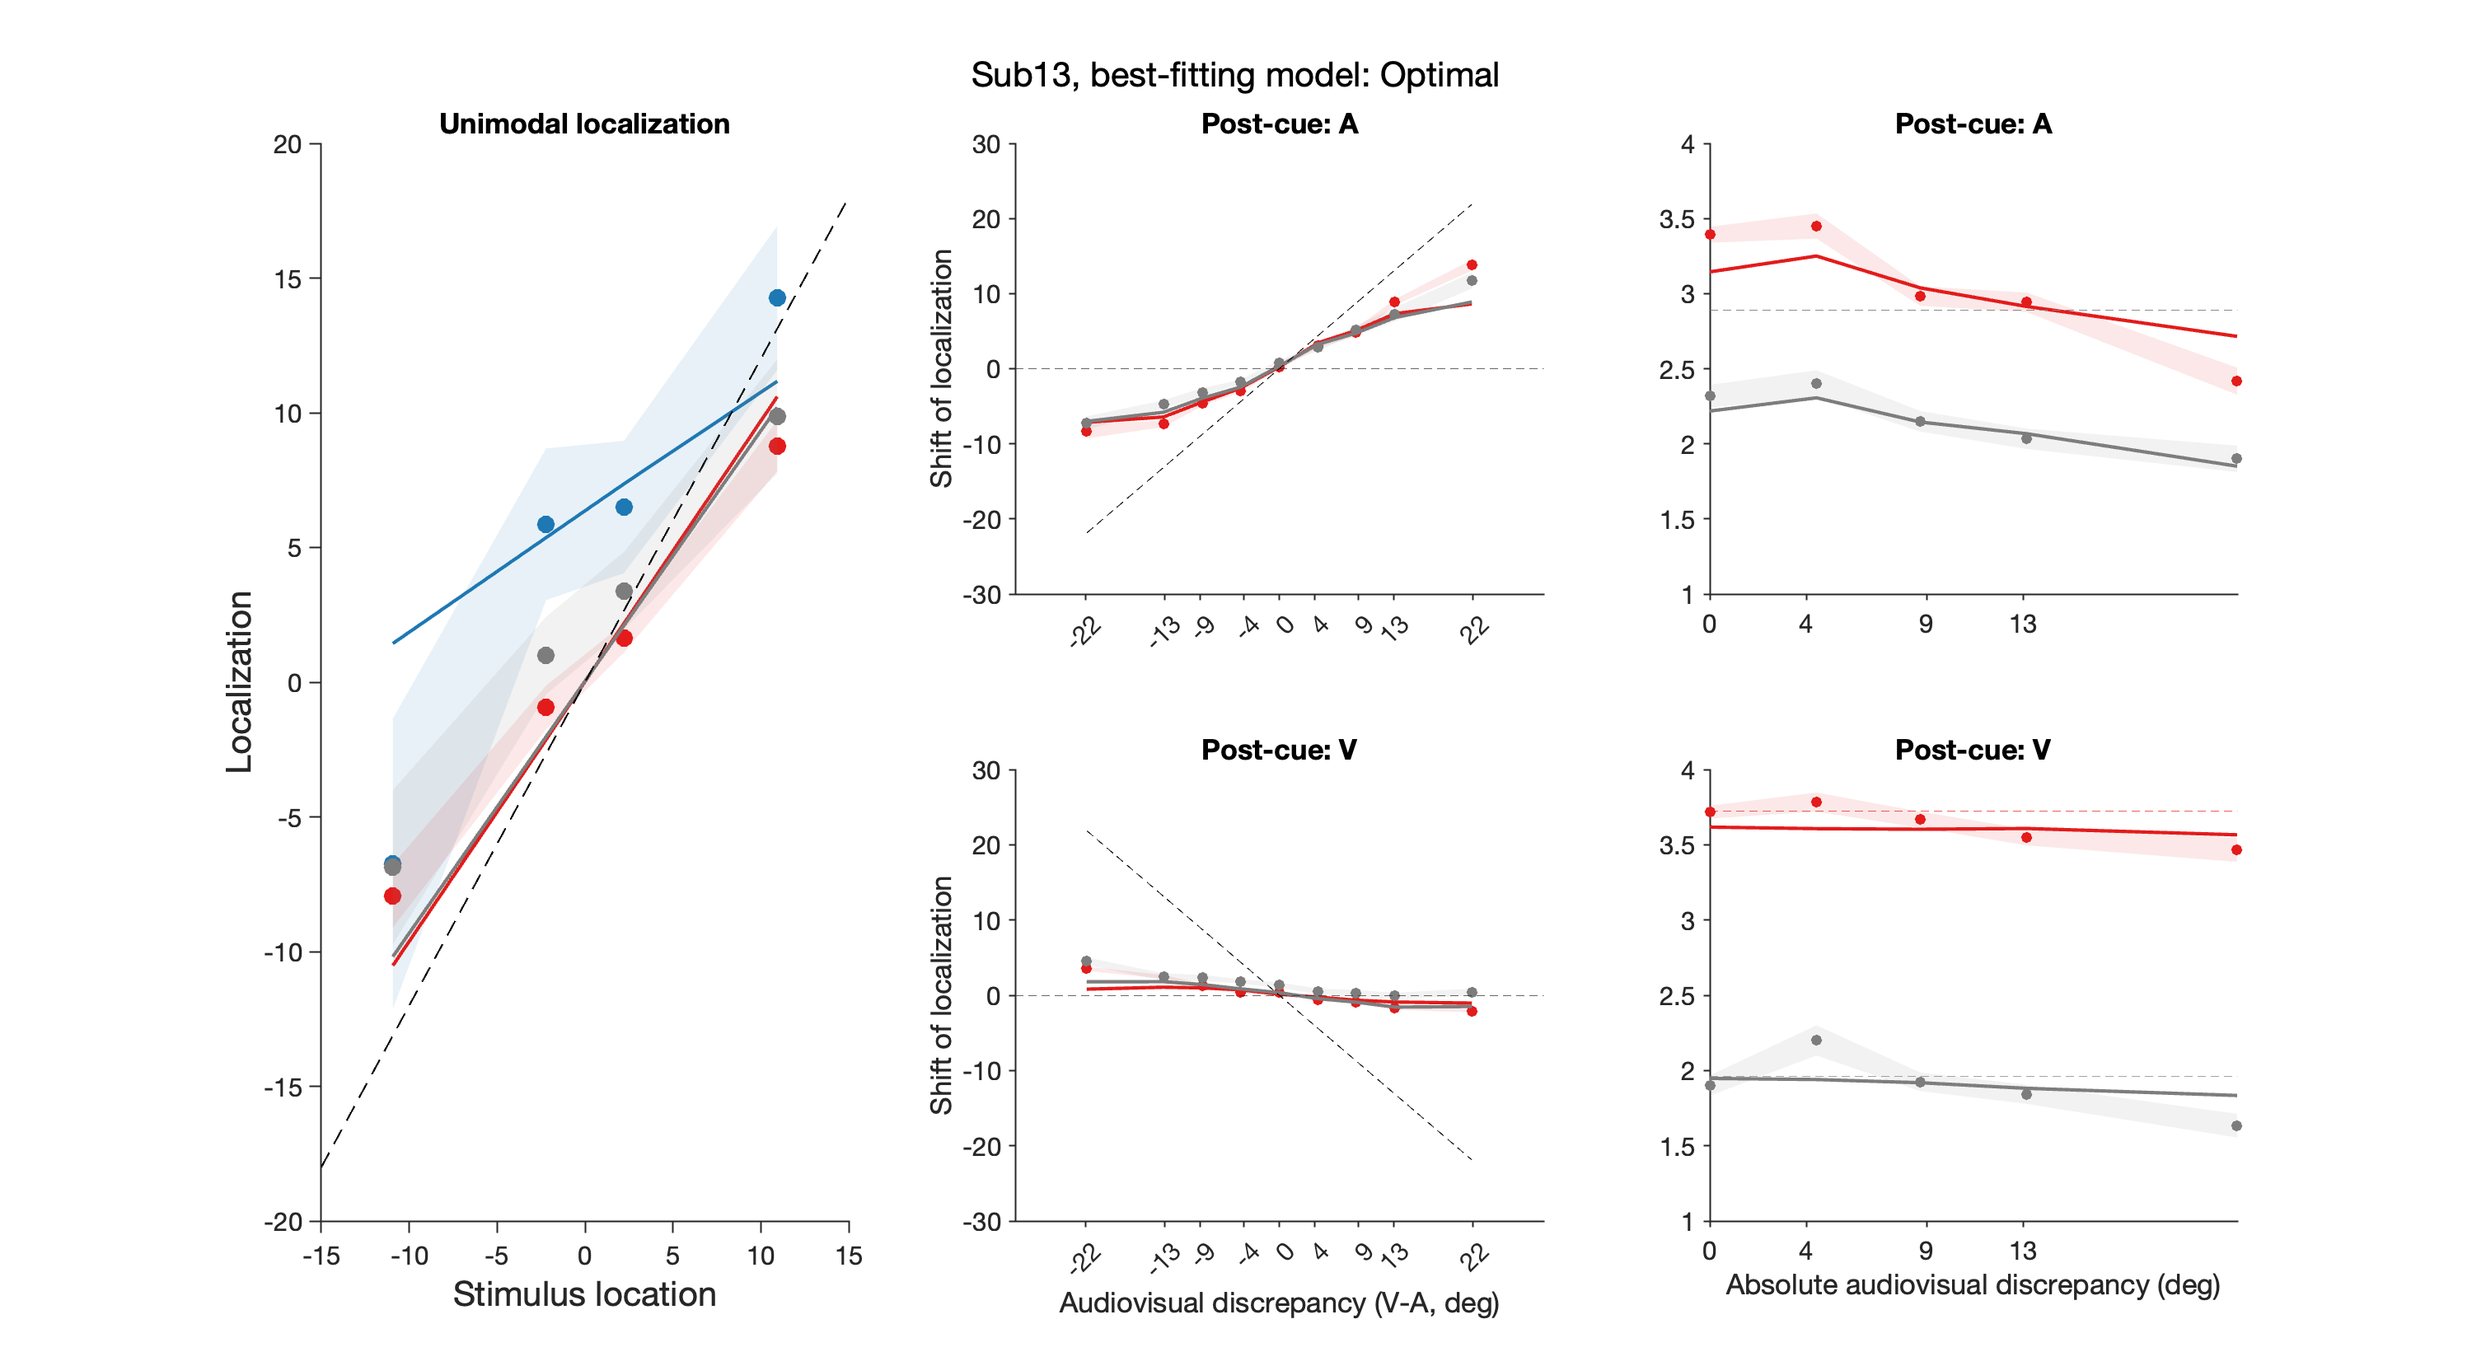
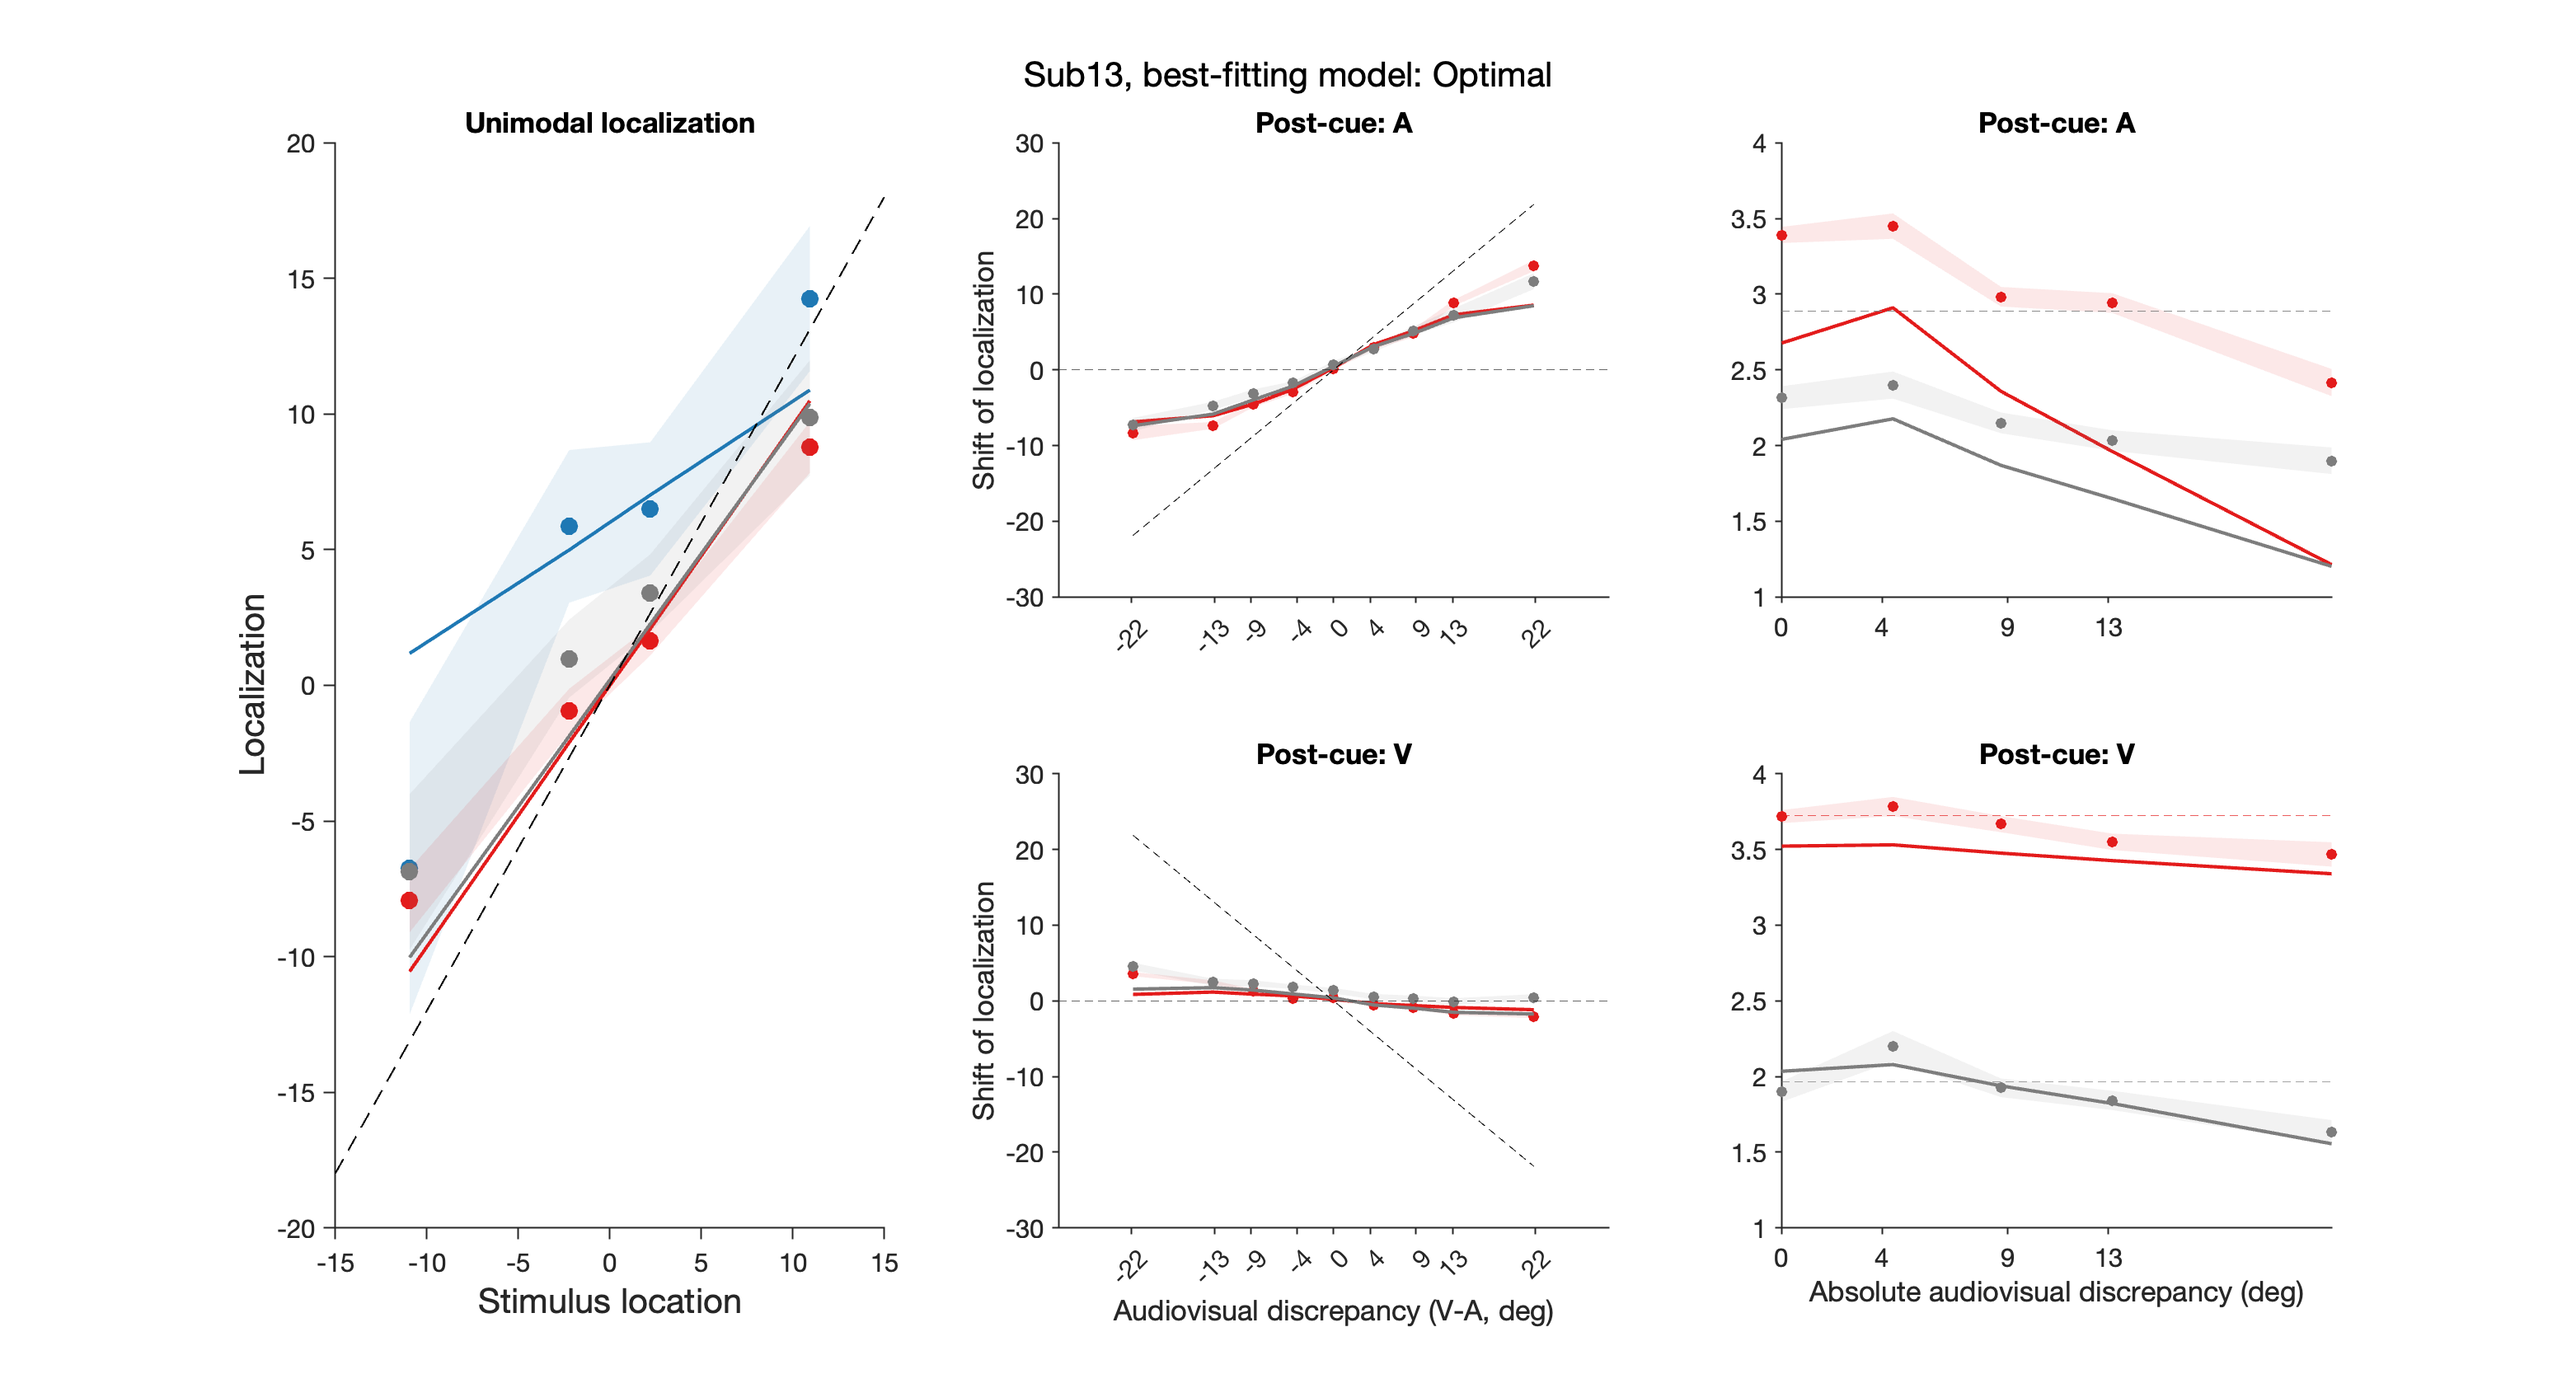
use variance for 2 criteria

diff --git a/modelFit/uniBiLocV8_2stage_sharedSigma_4C/plotEstVar.m b/modelFit/uniBiLocV8_2stage_sharedSigma_4C/plotEstVar.m
@@ -36,7 +36,7 @@ load(files(end).name);
 
 % winning model?
 [~, d] = min([saveConfModel{1}.minNLL, saveConfModel{2}.minNLL, saveConfModel{3}.minNLL]);
-d = 3;
+% d = 3;
 
 % use the best-fitting parameter and winning model
 p = saveConfModel{d}.bestP;
@@ -58,13 +58,14 @@ histogram(uni_est(1,:))
 histogram(uni_est(2,:))
 histogram(uni_est(3,:))
 legend({'A','V1','V2'})
-cA = [p(2),p(2)+p(3),p(2)+p(3)+p(4)]; cV = [p(5),p(5)+p(6),p(5)+p(6)+p(7)];
+cA1 = [p(2),p(2)+p(3),p(2)+p(3)+p(4)]; cV1 = [p(5),p(5)+p(6),p(5)+p(6)+p(7)];
+cA2 = [p(8),p(8)+p(9),p(8)+p(9)+p(10)]; cV2 = [p(11),p(11)+p(12),p(11)+p(12)+p(13)];
 
-for c = 1:3
-
-    xline(cA(c));
-    xline(cV(c),'--');
-end
+% for c = 1:3
+% 
+%     xline(cA(c));
+%     xline(cV(c),'--');
+% end
 
 
 % %% plot unimodal estvar
@@ -103,6 +104,7 @@ for pp = 1:npair
     hold on
     % xlim([0, 10])
     title(sprintf('discrepancy: %i', udiff(pp)))
+xlim([0, 30])
 
     aa = pair_slc(pp,1);
     vv = pair_slc(pp,2);
@@ -110,52 +112,53 @@ for pp = 1:npair
     for  rel = 1:2
 
         bi_est = squeeze(pred.bi_est_var(aa,vv,1,rel,:));
-        histogram(bi_est,'NumBins',25)
+        histogram(bi_est,'BinWidth',0.2)
 
     end
 
     for cc = 1:3
 
-        xline(cA(cc));
+        xline(cA1(cc));
+        xline(cA2(cc),'--');
 
     end
 
 end
 
 
-%% plot bimodal conf resp
-
-sA = [-10, -2, 2, 10];
-diff =  sA - sA';
-udiff = unique(diff);
-udiff = udiff(5:end);
-pair_slc = [2,2;3,2;2,1;3,1;4,1];
-npair = size(pair_slc,1);
-
-figure
-sgtitle('A')
-set(gcf,'Position',[0,0,2400,300])
-
-for pp = 1:npair
-
-    subplot(1,npair, pp);
-    hold on
-    % xlim([0, 10])
-    title(sprintf('discrepancy: %i', udiff(pp)))
-
-    aa = pair_slc(pp,1);
-    vv = pair_slc(pp,2);
-
-    for  rel = 1:2
-
-        bi_conf = squeeze(pred.bi_conf(aa,vv,1,rel,:));
-        histogram(bi_conf(:))
-
-    end
-    xticks(0:5)
-    xlim([0,5])
-
-end
+% %% plot bimodal conf resp
+% 
+% sA = [-10, -2, 2, 10];
+% diff =  sA - sA';
+% udiff = unique(diff);
+% udiff = udiff(5:end);
+% pair_slc = [2,2;3,2;2,1;3,1;4,1];
+% npair = size(pair_slc,1);
+% 
+% figure
+% sgtitle('A')
+% set(gcf,'Position',[0,0,2400,300])
+% 
+% for pp = 1:npair
+% 
+%     subplot(1,npair, pp);
+%     hold on
+%     % xlim([0, 10])
+%     title(sprintf('discrepancy: %i', udiff(pp)))
+% 
+%     aa = pair_slc(pp,1);
+%     vv = pair_slc(pp,2);
+% 
+%     for  rel = 1:2
+% 
+%         bi_conf = squeeze(pred.bi_conf(aa,vv,1,rel,:));
+%         histogram(bi_conf(:))
+% 
+%     end
+%     xticks(0:5)
+%     xlim([0,5])
+% 
+% end
 
 %%
 
@@ -176,13 +179,14 @@ for pp = 1:npair
     for  rel = 1:2
 
         bi_est = squeeze(pred.bi_est_var(aa,vv,2,rel,:));
-        histogram(bi_est,'NumBins',25)
+        histogram(bi_est,'BinWidth',0.2)
 
     end
 
     for cc = 1:3
 
-        xline(cV(cc));
+        xline(cV1(cc));
+        xline(cV2(cc),'--');
 
     end
 

diff --git a/modelFit/uniBiLocV6_2stage_sharedSigma_diffC/nllUniBiConf.m b/modelFit/uniBiLocV6_2stage_sharedSigma_diffC/nllUniBiConf.m
@@ -9,18 +9,18 @@ switch model.mode
 
         % hard bounds, the range for LB, UB, larger than soft bounds
         paraH.sigC                   = [1e-4,     5]; % measurement noise of confidence
-        paraH.c1                     = [ 0.5,     5];
-        paraH.dc2                    = [0.01,     5];
-        paraH.dc3                    = [0.01,     5];
-        paraH.c4                     = [ 0.5,     5];
-        paraH.dc5                    = [0.01,     5];
-        paraH.dc6                    = [0.01,     5];
+        paraH.c1                     = [ 0.5,     20];
+        paraH.dc2                    = [0.01,     20];
+        paraH.dc3                    = [0.01,     20];
+        paraH.c4                     = [ 0.5,     10];
+        paraH.dc5                    = [0.01,     10];
+        paraH.dc6                    = [0.01,     10];
 
         % soft bounds, the range for PLB, PUB
         paraS.sigC                   = [1e-4,     2]; % measurement noise of confidence
         paraS.c1                     = [   1,     2];
-        paraS.dc2                    = [ 0.1,   0.5];
-        paraS.dc3                    = [ 0.1,   0.5];
+        paraS.dc2                    = [ 0.1,     5];
+        paraS.dc3                    = [ 0.1,     5];
         paraS.c4                     = [   1,     2];
         paraS.dc5                    = [ 0.1,   0.5];
         paraS.dc6                    = [ 0.1,   0.5];
@@ -79,9 +79,13 @@ switch model.mode
 
             % normalize variance by the corresponding modality noise to
             % approximate uncertainty
-            norm_var_A = 1/(1/sigP^2 + 1/sigA^2)/sigA;
-            norm_var_V1 = 1/(1/sigP^2 + 1/sigV1^2)/sigV1;
-            norm_var_V2 = 1/(1/sigP^2 + 1/sigV2^2)/sigV2;
+%             norm_var_A = 1/(1/sigP^2 + 1/sigA^2)/sigA;
+%             norm_var_V1 = 1/(1/sigP^2 + 1/sigV1^2)/sigV1;
+%             norm_var_V2 = 1/(1/sigP^2 + 1/sigV2^2)/sigV2;
+
+            norm_var_A = 1/(1/sigP^2 + 1/sigA^2);
+            norm_var_V1 = 1/(1/sigP^2 + 1/sigV1^2);
+            norm_var_V2 = 1/(1/sigP^2 + 1/sigV2^2);
 
             % unimodal confidence task
             nLL_uni_conf = calculateNLL_uniConf([norm_var_A, norm_var_V1, norm_var_V2],...
@@ -270,7 +274,7 @@ end
                 % cumulative distribution with a mean of confidence variable (var)
                 % and an S.D. of confidence measurement noise (sigC), evaluated at
                 % each criteria.
-                m = norm_var;
+                m = var;%norm_var;
                 v = sigC;
                 mu = log((m.^2)./sqrt(v+m.^2));
                 sigma = sqrt(log(v./(m.^2)+1));

diff --git a/modelFit/uniBiLocV8_2stage_sharedSigma_4C/nllUniBiConf.m b/modelFit/uniBiLocV8_2stage_sharedSigma_4C/nllUniBiConf.m
@@ -8,13 +8,13 @@ switch model.mode
         out.num_para                 = length(out.paraID);
 
         % hard bounds, the range for LB, UB, larger than soft bounds
-        paraH.sigC                   = [1e-4,     2]; % measurement noise of confidence
+        paraH.sigC                   = [1e-4,     5]; % measurement noise of confidence
         paraH.c1                     = [0.01,     5]; % A
         paraH.dc2                    = [0.01,     5];
         paraH.dc3                    = [0.01,     5];
         paraH.c4                     = [0.01,     5]; % V1
         paraH.dc5                    = [0.01,    5];
-        paraH.dc6                    = [0.01,    5];
+        paraH.dc6                    = [0.01,    10];
         paraH.c7                     = [0.01,     5]; % v2
         paraH.dc8                    = [0.01,     5];
         paraH.dc9                    = [0.01,     5];
@@ -108,6 +108,10 @@ switch model.mode
             norm_var_A = 1/(1/sigP^2 + 1/sigA^2)/sigA;
             norm_var_V1 = 1/(1/sigP^2 + 1/sigV1^2)/sigV1;
             norm_var_V2 = 1/(1/sigP^2 + 1/sigV2^2)/sigV2;
+% 
+%             norm_var_A = 1/(1/sigP^2 + 1/sigA^2);
+%             norm_var_V1 = 1/(1/sigP^2 + 1/sigV1^2);
+%             norm_var_V2 = 1/(1/sigP^2 + 1/sigV2^2);
 
             % unimodal confidence task
             nLL_uni_conf = calculateNLL_uniConf([norm_var_A, norm_var_V1, norm_var_V2],...
@@ -281,14 +285,14 @@ end
 
                 elseif strcmp(model.strategy_conf, 'Heuristic')
 
-                    var(1,:,:) = repmat(CI.J_P * sigA/CI.constC2_1, size(Post_C1));
-                    var(2,:,:) = repmat(CI.J_P * sigV/CI.constC2_2, size(Post_C1));
+                    var(1,:,:) = repmat(1/CI.constC2_1_shat, size(Post_C1));
+                    var(2,:,:) = repmat(1/CI.constC2_2_shat, size(Post_C1));
                     %  var(1,:,:) = repmat(CI.J_A, size(Post_C1));
                     %  var(2,:,:) = repmat(CI.J_V, size(Post_C1));
 
                 end
 
-                % normalize variance by the corresponding modality noise
+%                 % normalize variance by the corresponding modality noise
                 norm_var(1,:,:) = var(1,:,:)./sigA;
                 norm_var(2,:,:) = var(2,:,:)./sigV;
 

diff --git a/modelFit/uniBiLocV6_2stage_sharedSigma_diffC/simUni.m b/modelFit/uniBiLocV6_2stage_sharedSigma_diffC/simUni.m
@@ -18,9 +18,9 @@ loc(2,:,:) = randn(size(shatV1)).*fixP.sigMotor + shatV1;
 loc(3,:,:) = randn(size(shatV2)).*fixP.sigMotor + shatV2;
 
 % conf
-norm_var(1,:,:) = repmat(sigA_uni * sigP^2 / (sigP^2 + sigA_uni^2), [1, size(loc, 2, 3)]);
-norm_var(2,:,:) = repmat(sigV1_uni * sigP^2 / (sigP^2 + sigV1_uni^2), [1, size(loc, 2, 3)]);
-norm_var(3,:,:) = repmat(sigV2_uni * sigP^2 / (sigP^2 + sigV2_uni^2), [1, size(loc, 2, 3)]);
+norm_var(1,:,:) = repmat(sigA_uni^2 * sigP^2 / (sigP^2 + sigA_uni^2), [1, size(loc, 2, 3)]);
+norm_var(2,:,:) = repmat(sigV1_uni^2 * sigP^2 / (sigP^2 + sigV1_uni^2), [1, size(loc, 2, 3)]);
+norm_var(3,:,:) = repmat(sigV2_uni^2 * sigP^2 / (sigP^2 + sigV2_uni^2), [1, size(loc, 2, 3)]);
 m = norm_var;
 v = sigC;
 mu = log((m.^2)./sqrt(v+m.^2));

diff --git a/modelFit/uniBiLocV8_2stage_sharedSigma_4C/simUni.m b/modelFit/uniBiLocV8_2stage_sharedSigma_4C/simUni.m
@@ -19,8 +19,8 @@ loc(3,:,:) = randn(size(shatV2)).*fixP.sigMotor + shatV2;
 
 % conf
 norm_var(1,:,:) = repmat(sigA_uni * sigP^2 / (sigP^2 + sigA_uni^2), [1, size(loc, 2, 3)]);
-norm_var(2,:,:) = repmat(sigV1_uni^2 * sigP^2 / (sigP^2 + sigV1_uni^2), [1, size(loc, 2, 3)]);
-norm_var(3,:,:) = repmat(sigV2_uni^2 * sigP^2 / (sigP^2 + sigV2_uni^2), [1, size(loc, 2, 3)]);
+norm_var(2,:,:) = repmat(sigV1_uni * sigP^2 / (sigP^2 + sigV1_uni^2), [1, size(loc, 2, 3)]);
+norm_var(3,:,:) = repmat(sigV2_uni * sigP^2 / (sigP^2 + sigV2_uni^2), [1, size(loc, 2, 3)]);
 m = norm_var;
 v = sigC;
 mu = log((m.^2)./sqrt(v+m.^2));

diff --git a/modelFit/uniBiLocV8_2stage_sharedSigma_4C/modelFit.m b/modelFit/uniBiLocV8_2stage_sharedSigma_4C/modelFit.m
@@ -120,7 +120,8 @@ for sub = sub_slc
         NLL                         = NaN(1, model.num_run);
         estP                        = NaN(model.num_run, Val.num_para);
 
-        test = nllUniBiConf(Val.init(1,:), model, data);
+%         p = [  5.0000    0.4551    4.9448    5.0000    2.3745    5.0000   10.0000    0.2207    0.6958    2.1282    0.0699    0.9080    4.2809];
+%         test = nllUniBiConf(p, model, data);
 
         parfor i                    = 1:model.num_run
 

diff --git a/modelFit/uniBiLocV8_2stage_sharedSigma_4C/simAllModels.m b/modelFit/uniBiLocV8_2stage_sharedSigma_4C/simAllModels.m
@@ -76,7 +76,7 @@ switch model_ind
         variance(2,:)= post_C1./(1/JV + 1/JA + 1/JP) + post_C2./(1/JV + 1/JP) + post_C1.* post_C2 .* (sHat_V_C2 - sHat_C1).^2;
 end
 
-% normalize variance by the corresponding modality noise
+% % normalize variance by the corresponding modality noise
 norm_var(1,:) = variance(1,:)./sigA;
 norm_var(2,:) = variance(2,:)./sigV;
 

diff --git a/modelFit/uniBiLocV6_2stage_sharedSigma_diffC/simAllModels.m b/modelFit/uniBiLocV6_2stage_sharedSigma_diffC/simAllModels.m
@@ -81,7 +81,7 @@ norm_var(1,:) = variance(1,:)./sigA;
 norm_var(2,:) = variance(2,:)./sigV;
 
 % make noisy measurements of variance/uncertainty for each modality
-m = norm_var;
+m = variance;%norm_var;
 v = sigC;
 mu = log((m.^2)./sqrt(v+m.^2));
 sigma = sqrt(log(v./(m.^2)+1));

diff --git a/modelFit/uniBiLocV8_2stage_sharedSigma_4C/plotModelPrediction.m b/modelFit/uniBiLocV8_2stage_sharedSigma_4C/plotModelPrediction.m
@@ -35,6 +35,7 @@ load(files(end).name);
 
 % winning model?
 [~, d] = min([saveConfModel{1}.minNLL, saveConfModel{2}.minNLL, saveConfModel{3}.minNLL]);
+d=3;
 
 % use the best-fitting parameter and winning model
 p = saveConfModel{d}.bestP;

diff --git a/modelFit/uniBiLocV6_2stage_sharedSigma_diffC/plotModelPrediction.m b/modelFit/uniBiLocV6_2stage_sharedSigma_diffC/plotModelPrediction.m
@@ -1,6 +1,6 @@
 clear; close all; rng('shuffle');
 
-sub_slc = 16;
+sub_slc = 13;
 ses_slc = 1:3; % bimodal sessions
 
 models = {'Heuristic','Suboptimal','Optimal'};

diff --git a/modelFit/uniBiLocV6_2stage_sharedSigma_diffC/modelFit.m b/modelFit/uniBiLocV6_2stage_sharedSigma_diffC/modelFit.m
@@ -6,7 +6,7 @@
 
 clear; close all; rng('shuffle');
 
-sub_slc = 16;
+sub_slc = 13;
 ses_slc = 1:3; % bimodal sessions
 
 %% manage path
